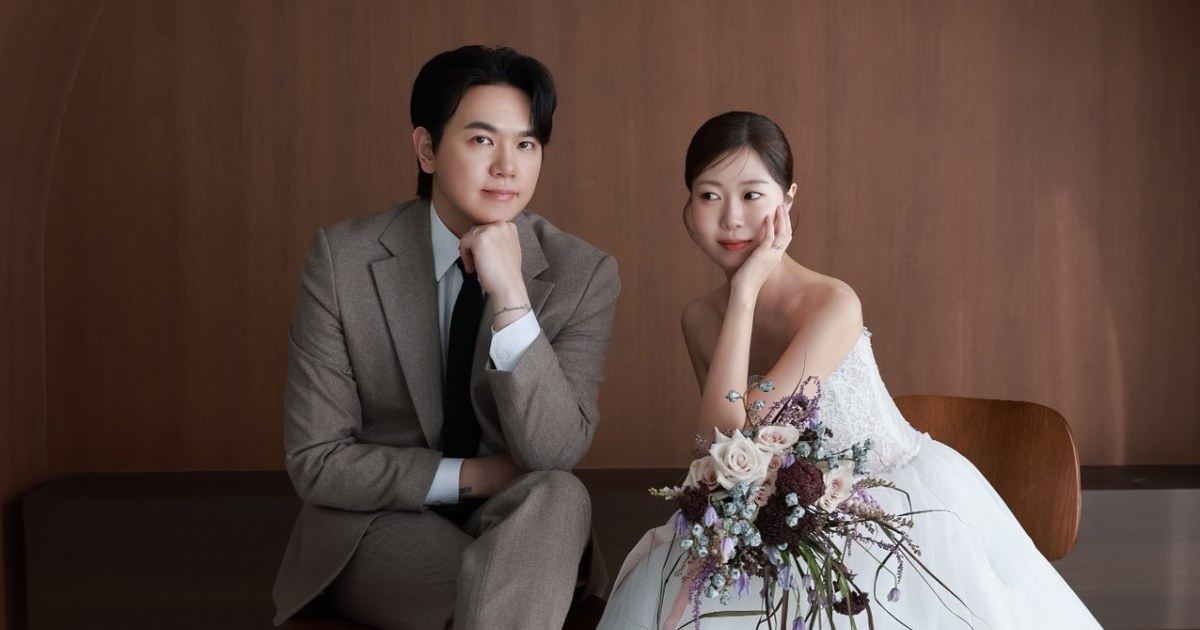
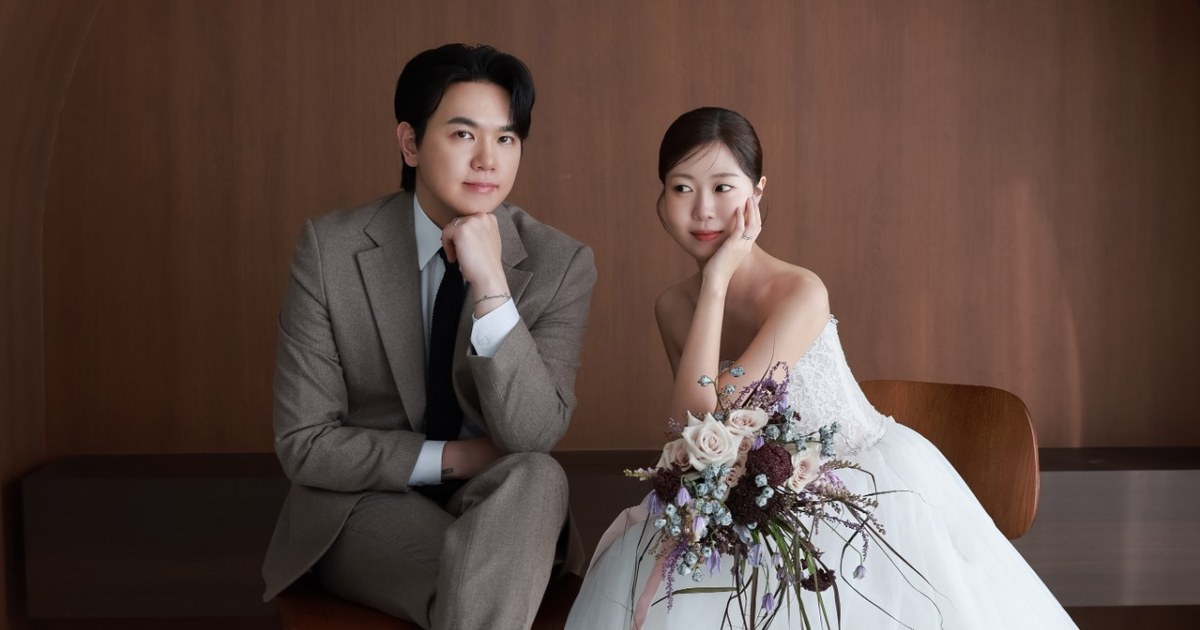
카카오톡 공유 대표이미지의 오른쪽 여백을 중간 정도로 조정 (#5)
직전 축소(100px)의 절반인 50px만 줄이도록 다시 자르고,
og:image 버전 파라미터를 v=6으로 올려 캐시 회피.

Claude-Session: https://claude.ai/code/session_01GZp4QFBFFWEpVuaL59Kzhg

diff --git a/index.html b/index.html
@@ -11,7 +11,7 @@
 <meta property="og:title" content="박종민 ♥ 장혜린 결혼합니다">
 <meta property="og:description" content="2027년 1월 9일 토요일 오전 11시 · 콘래드 서울 5층 파크볼룸">
 <meta property="og:url" content="https://daramdean.github.io/wedding/">
-<meta property="og:image" content="https://daramdean.github.io/wedding/assets/og/og-kakao.jpg?v=5">
+<meta property="og:image" content="https://daramdean.github.io/wedding/assets/og/og-kakao.jpg?v=6">
 <meta property="og:image:width" content="1200">
 <meta property="og:image:height" content="630">
 <meta property="og:image:alt" content="박종민과 장혜린의 웨딩 사진">
